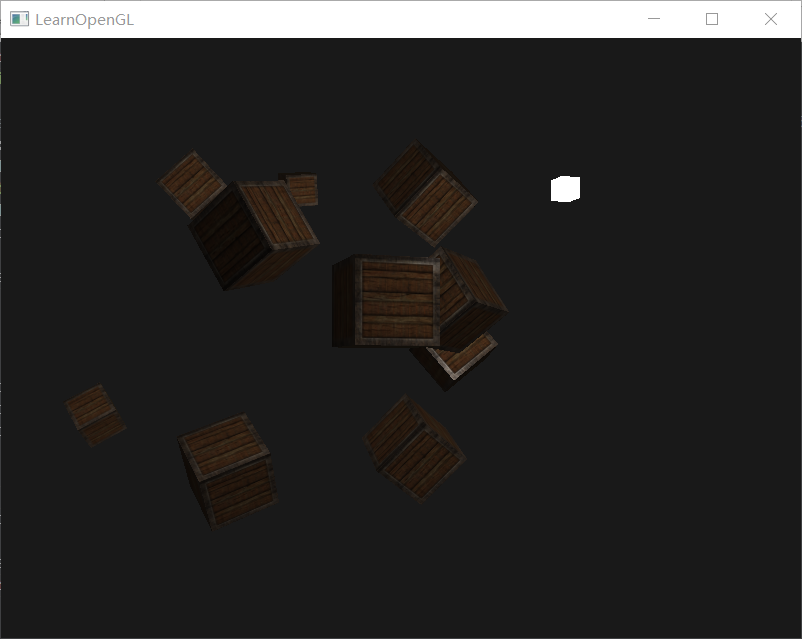
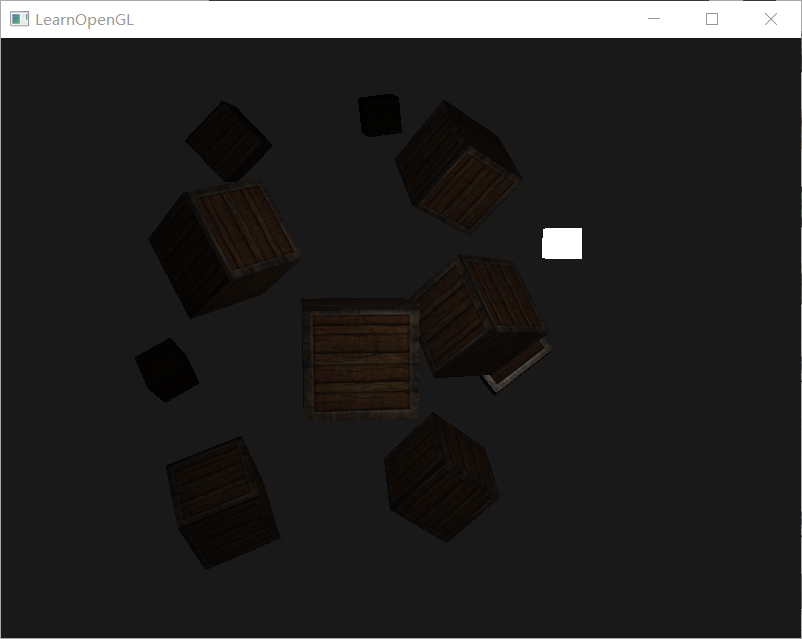
update 聚光 边缘软化

diff --git a/src/lighting/Spot_soft.cpp b/src/lighting/Spot_soft.cpp
@@ -1,4 +1,4 @@
-// 点光源
+// 聚光 模拟手电筒 边缘软化
 #include <glad/glad.h>
 #include <GLFW/glfw3.h>
 #include <stb_image.h> 
@@ -34,7 +34,7 @@ float deltaTime = 0.0f;
 float lastFrame = 0.0f;
 
 // lighting
-glm::vec3 lightPos(1.2f, 1.0f, 2.0f);
+// glm::vec3 lightPos(1.2f, 1.0f, 2.0f);
 
 int main(int argc, char **argv)
 {
@@ -88,7 +88,7 @@ int main(int argc, char **argv)
     // ------------------------------------
     string shaderPath = root + "shader/lighting/";
     string vs,fs;
-    vs = shaderPath + "point.vs"; fs = shaderPath + "point.fs";
+    vs = shaderPath + "spot.vs"; fs = shaderPath + "spot_soft.fs";
     Shader lightingShader(vs.c_str(), fs.c_str());
     vs = shaderPath + "lamp.vs"; fs = shaderPath + "lamp.fs";
     Shader lampShader(vs.c_str(), fs.c_str());
@@ -216,20 +216,23 @@ int main(int argc, char **argv)
 
         // 设置时一定要激活着色器
         lightingShader.use();
-        lightingShader.setVec3("light.position",  lightPos);
+        lightingShader.setVec3("light.position", camera.Position);
+        lightingShader.setVec3("light.direction", camera.Front);
+        lightingShader.setFloat("light.cutOff", glm::cos(glm::radians(12.5f))); // 聚光角度大小，控制手电筒光柱
+        lightingShader.setFloat("light.outerCutOff", glm::cos(glm::radians(17.5f)));
         lightingShader.setVec3("viewPos", camera.Position);
 
+
         // 光照属性
-        lightingShader.setVec3("light.ambient", 0.2f, 0.2f, 0.2f);
-        lightingShader.setVec3("light.diffuse", 0.5f, 0.5f, 0.5f);
+        lightingShader.setVec3("light.ambient", 0.1f, 0.1f, 0.1f);
+        lightingShader.setVec3("light.diffuse", 0.8f, 0.8f, 0.8f);
         lightingShader.setVec3("light.specular", 1.0f, 1.0f, 1.0f);
         lightingShader.setFloat("light.constant", 1.0f);
         lightingShader.setFloat("light.linear", 0.09f);
         lightingShader.setFloat("light.quadratic", 0.032f);
-        
 
         // 材质属性  改变它的数值，查看效果
-        lightingShader.setFloat("material.shininess", 64.0f);
+        lightingShader.setFloat("material.shininess", 32.0f);
 
         // view/projection transformations
         glm::mat4 projection = glm::perspective(glm::radians(camera.Zoom), (float)SCR_WIDTH / (float)SCR_HEIGHT, 0.1f, 100.0f);
@@ -264,13 +267,13 @@ int main(int argc, char **argv)
 
 
         // also draw the lamp object
-        lampShader.use();
-        lampShader.setMat4("projection", projection);
-        lampShader.setMat4("view", view);
-        model = glm::mat4(1.0f);
-        model = glm::translate(model, lightPos);
-        model = glm::scale(model, glm::vec3(0.2f)); // a smaller cube
-        lampShader.setMat4("model", model);
+        // lampShader.use();
+        // lampShader.setMat4("projection", projection);
+        // lampShader.setMat4("view", view);
+        // model = glm::mat4(1.0f);
+        // model = glm::translate(model, lightPos);
+        // model = glm::scale(model, glm::vec3(0.2f)); // a smaller cube
+        // lampShader.setMat4("model", model);
 
         glBindVertexArray(lightVAO);
         glDrawArrays(GL_TRIANGLES, 0, 36);

diff --git a/src/lighting/Spot.cpp b/src/lighting/Spot.cpp
@@ -1,4 +1,4 @@
-// 点光源
+// 聚光 模拟手电筒
 #include <glad/glad.h>
 #include <GLFW/glfw3.h>
 #include <stb_image.h> 
@@ -34,7 +34,7 @@ float deltaTime = 0.0f;
 float lastFrame = 0.0f;
 
 // lighting
-glm::vec3 lightPos(1.2f, 1.0f, 2.0f);
+// glm::vec3 lightPos(1.2f, 1.0f, 2.0f);
 
 int main(int argc, char **argv)
 {
@@ -88,7 +88,7 @@ int main(int argc, char **argv)
     // ------------------------------------
     string shaderPath = root + "shader/lighting/";
     string vs,fs;
-    vs = shaderPath + "point.vs"; fs = shaderPath + "point.fs";
+    vs = shaderPath + "spot.vs"; fs = shaderPath + "spot.fs";
     Shader lightingShader(vs.c_str(), fs.c_str());
     vs = shaderPath + "lamp.vs"; fs = shaderPath + "lamp.fs";
     Shader lampShader(vs.c_str(), fs.c_str());
@@ -216,20 +216,22 @@ int main(int argc, char **argv)
 
         // 设置时一定要激活着色器
         lightingShader.use();
-        lightingShader.setVec3("light.position",  lightPos);
+        lightingShader.setVec3("light.position", camera.Position);
+        lightingShader.setVec3("light.direction", camera.Front);
+        lightingShader.setFloat("light.cutOff", glm::cos(glm::radians(12.5f))); // 聚光角度大小，控制手电筒光柱
         lightingShader.setVec3("viewPos", camera.Position);
 
+
         // 光照属性
-        lightingShader.setVec3("light.ambient", 0.2f, 0.2f, 0.2f);
-        lightingShader.setVec3("light.diffuse", 0.5f, 0.5f, 0.5f);
+        lightingShader.setVec3("light.ambient", 0.1f, 0.1f, 0.1f);
+        lightingShader.setVec3("light.diffuse", 0.8f, 0.8f, 0.8f);
         lightingShader.setVec3("light.specular", 1.0f, 1.0f, 1.0f);
         lightingShader.setFloat("light.constant", 1.0f);
         lightingShader.setFloat("light.linear", 0.09f);
         lightingShader.setFloat("light.quadratic", 0.032f);
-        
 
         // 材质属性  改变它的数值，查看效果
-        lightingShader.setFloat("material.shininess", 64.0f);
+        lightingShader.setFloat("material.shininess", 32.0f);
 
         // view/projection transformations
         glm::mat4 projection = glm::perspective(glm::radians(camera.Zoom), (float)SCR_WIDTH / (float)SCR_HEIGHT, 0.1f, 100.0f);
@@ -264,13 +266,13 @@ int main(int argc, char **argv)
 
 
         // also draw the lamp object
-        lampShader.use();
-        lampShader.setMat4("projection", projection);
-        lampShader.setMat4("view", view);
-        model = glm::mat4(1.0f);
-        model = glm::translate(model, lightPos);
-        model = glm::scale(model, glm::vec3(0.2f)); // a smaller cube
-        lampShader.setMat4("model", model);
+        // lampShader.use();
+        // lampShader.setMat4("projection", projection);
+        // lampShader.setMat4("view", view);
+        // model = glm::mat4(1.0f);
+        // model = glm::translate(model, lightPos);
+        // model = glm::scale(model, glm::vec3(0.2f)); // a smaller cube
+        // lampShader.setMat4("model", model);
 
         glBindVertexArray(lightVAO);
         glDrawArrays(GL_TRIANGLES, 0, 36);

diff --git a/README.md b/README.md
@@ -51,4 +51,8 @@ LearnOpenGL
         <td align="center"><img src="img/Directional.png" width=400 hight=300/><br />Directional 平行光
         <td align="center"><img src="img/Point.png" width=400 hight=300/><br />Point 点光源
     </tr>
+    <tr>
+        <td align="center"><img src="img/Spot.png" width=400 hight=300/><br />Spot 聚光
+        <td align="center"><img src="img/Spot_soft.png" width=400 hight=300/><br />Spot_soft 边缘软化
+    </tr>
 </table>
